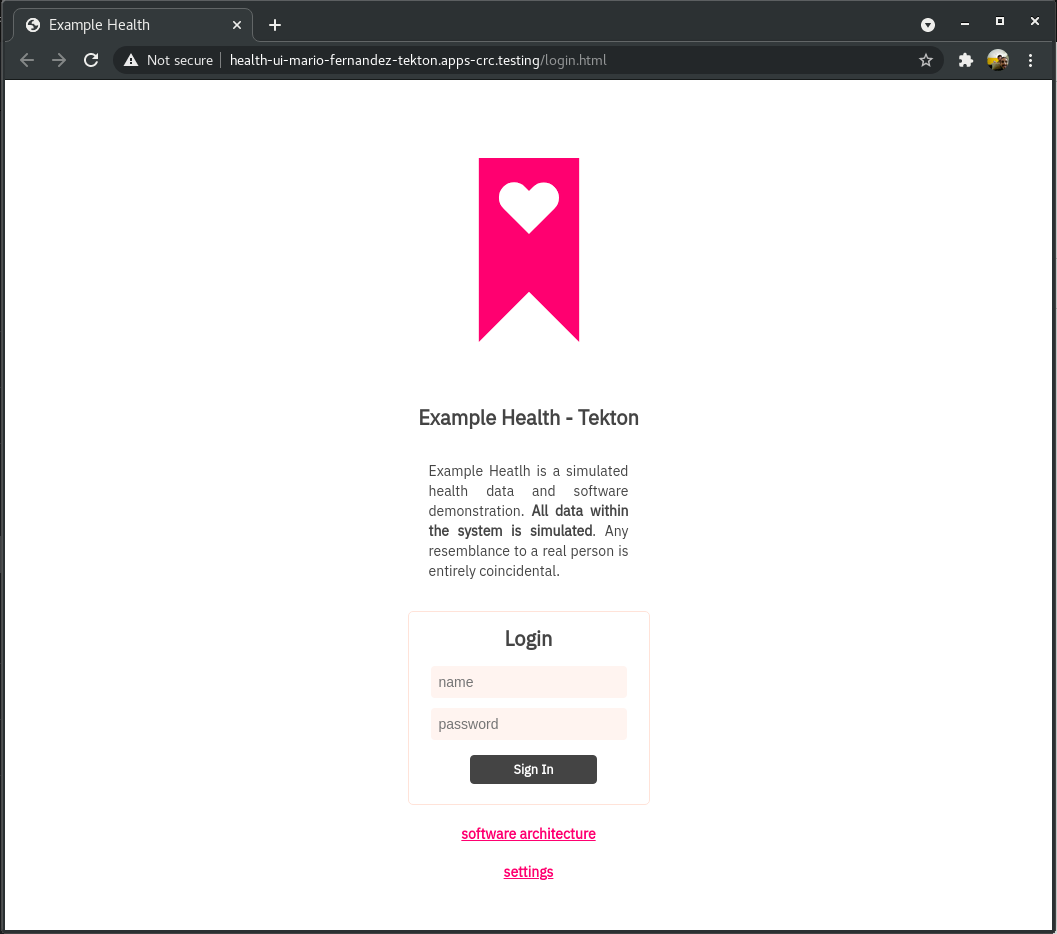
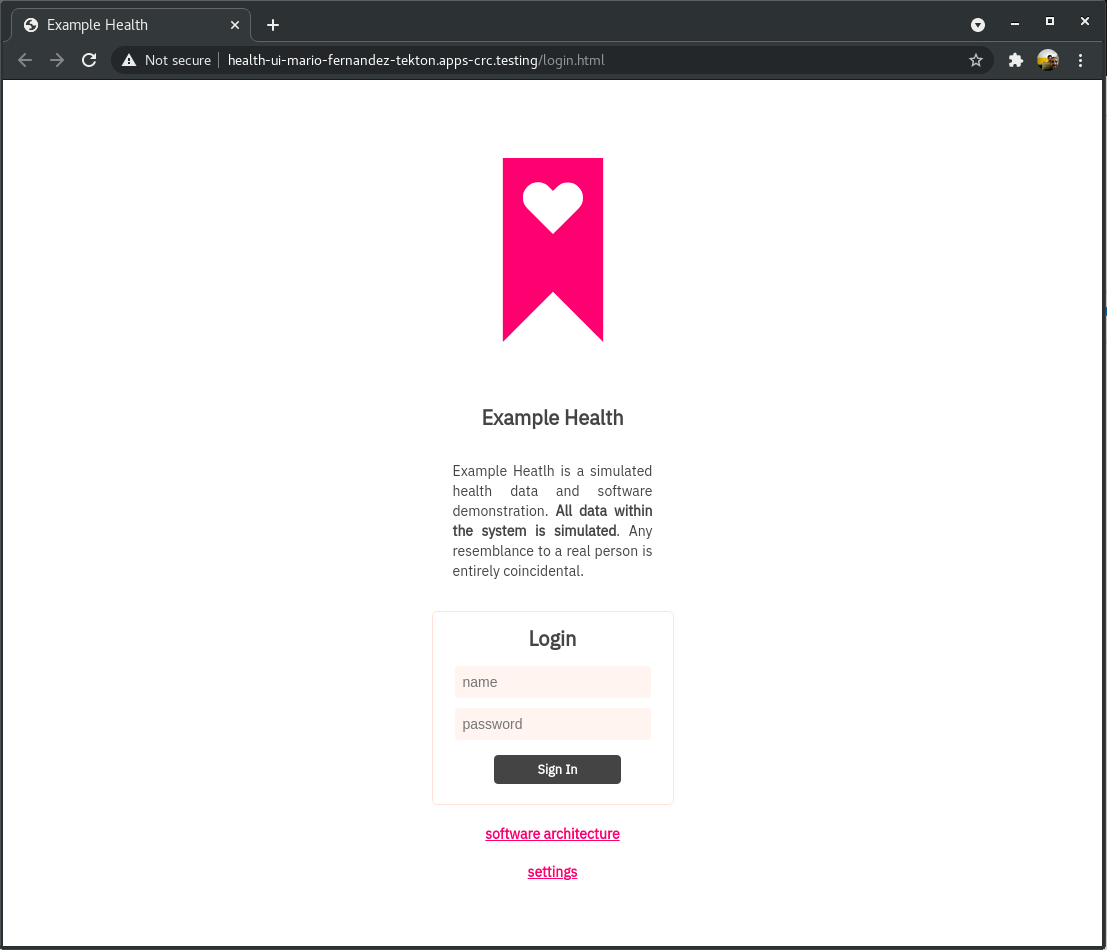
Change tekton doc

diff --git a/tekton/README.md b/tekton/README.md
@@ -10,6 +10,7 @@
 2. Create Project
 3. Create service account and add github-secret
 4. Apply pipelines and run
+5. Run pipelines
 
 ### 1. Target your cluster
 
@@ -38,13 +39,15 @@ To make sure the pipeline has the appropriate permissions to store images in the
 
 ```bash
 oc create serviceaccount pipeline #This might have already created
-oc adm policy add-scc-to-user privileged -z pipeline #Forbidden for self-provisioner
 oc adm policy add-role-to-user edit -z pipeline
 ```
 
 In order to be able to pull our artifacts from github private repository we must add a secret to our Service account.
 
-First we must obtain our token, [follow this instructions](https://docs.github.com/en/github/authenticating-to-github/creating-a-personal-access-token). Once we have our token ready we need to modify [git-secret.yaml](./git-secret.yaml) file with the corresponding details:
+First we must obtain our token, [follow this instructions](https://docs.github.com/en/github/authenticating-to-github/creating-a-personal-access-token). The permissions needed are: ***read:user, repo, user:email, write:repo_hook***
+
+
+Once we have our token ready we need to modify [git-secret.yaml](./git-secret.yaml) file with the corresponding details:
 
 ```bash
 git clone https://github.ibm.com/<your-w3-id>/health-ui
@@ -72,7 +75,7 @@ oc create -f git-secret.yaml
 Add this secret to your ServiceAccount:
 
 ```bash
-oc patch sa pipeline --type=json -p '[{"op":"add","path":"/secrets/-","value":{"name":"git-secret"}}]'
+oc secrets link pipeline git-secret
 ```
 
 Validate you can see the secret listed on the SA:
@@ -99,7 +102,7 @@ Events:              <none>
 
 
 
-### 4. Apply pvc, pipelines and run
+### 4. Apply pvc, pipelines
 
 Pipelines use **workspaces** in order to share data among tasks of the pipeline, and this workspaces use a PVC to store this data. So we need to create PCV using bellow file.
 
@@ -124,7 +127,7 @@ Changes Pipeline Definition:
 - fetch-health-ui         - This task will clone github repository.
 - start-build-health-ui   - This task will start the build process to create IS from Dockerfile. This will also trigger a new pod from the deployment since the image stream has changed.
 
-Before creating the pipelines, we must define the corresponding github repository under the fetch-health-ui task:
+Before creating the pipelines, we must define the corresponding github repository under the fetch-health-ui task for both **pipeline** files:
 
 ```
 tasks:
@@ -150,18 +153,14 @@ oc create -f pipeline-init.yaml
 oc create -f pipeline-change.yaml
 ```
 
-You can then run your pipeline by executing the command:
+### 5. Run pipelines
+
+**PipelineRun** will instantiates the pipeline and execute its tasks. For the initial run we will execute following command:
 
 Initial run:
 
 ```bash
 oc create -f pipelinerun-init.yaml
-```
-
-Any consequent changes run:
-
-```bash
-oc create -f pipelinerun-change.yaml
 ```
 
 Once created, you can follow along with the progress of your pipeline run from the list of  **Pipelines --> Pipeline Runs** in your cluster.  Success looks similar to:
@@ -196,3 +195,43 @@ NAME        HOST/PORT                                           PATH   SERVICES 
 health-ui   health-ui-mario-fernandez-tekton.apps-crc.testing          health-ui   8080-tcp                 None
 mario:tekton/ (master✗) $                                                                                                 
 ```
+# Subsecuent changes
+
+New changes to application must be applied using PipelineRun **pipelinerun-changes.yaml**
+
+Let's modify health-ui application banner.
+
+```
+cd <the path where you cloned your repo>
+vim site/public/login.html
+```
+
+We will modify **Example Health** banner to something else. i.e. **Example Health - Tekton**
+
+```
+<!doctype html>
+<html lang="en">
+...
+      <div class="Fictionalname">Example Health - Tekton</div>
+...
+</html>
+
+```
+
+Once the change was saved, we will push our changes to our github repository.
+
+```
+git add site/public/login.html
+git commit -m "Changes to the Login banner"
+git push origin master
+```
+
+Now, lets execute the PipelineRun (pipelinerun-change.yaml) that will instantiates the pipeline (pipeline-change.yaml) which will execute **start-build-health-ui** task. The *oc start build* command will build a new image and will trigger automatically a new pod instance of the application with the new changes.
+
+```bash
+oc create -f pipelinerun-change.yaml
+```
+
+Once finished validate route:
+
+![patientui-change](./images/health-ui-change.png)
